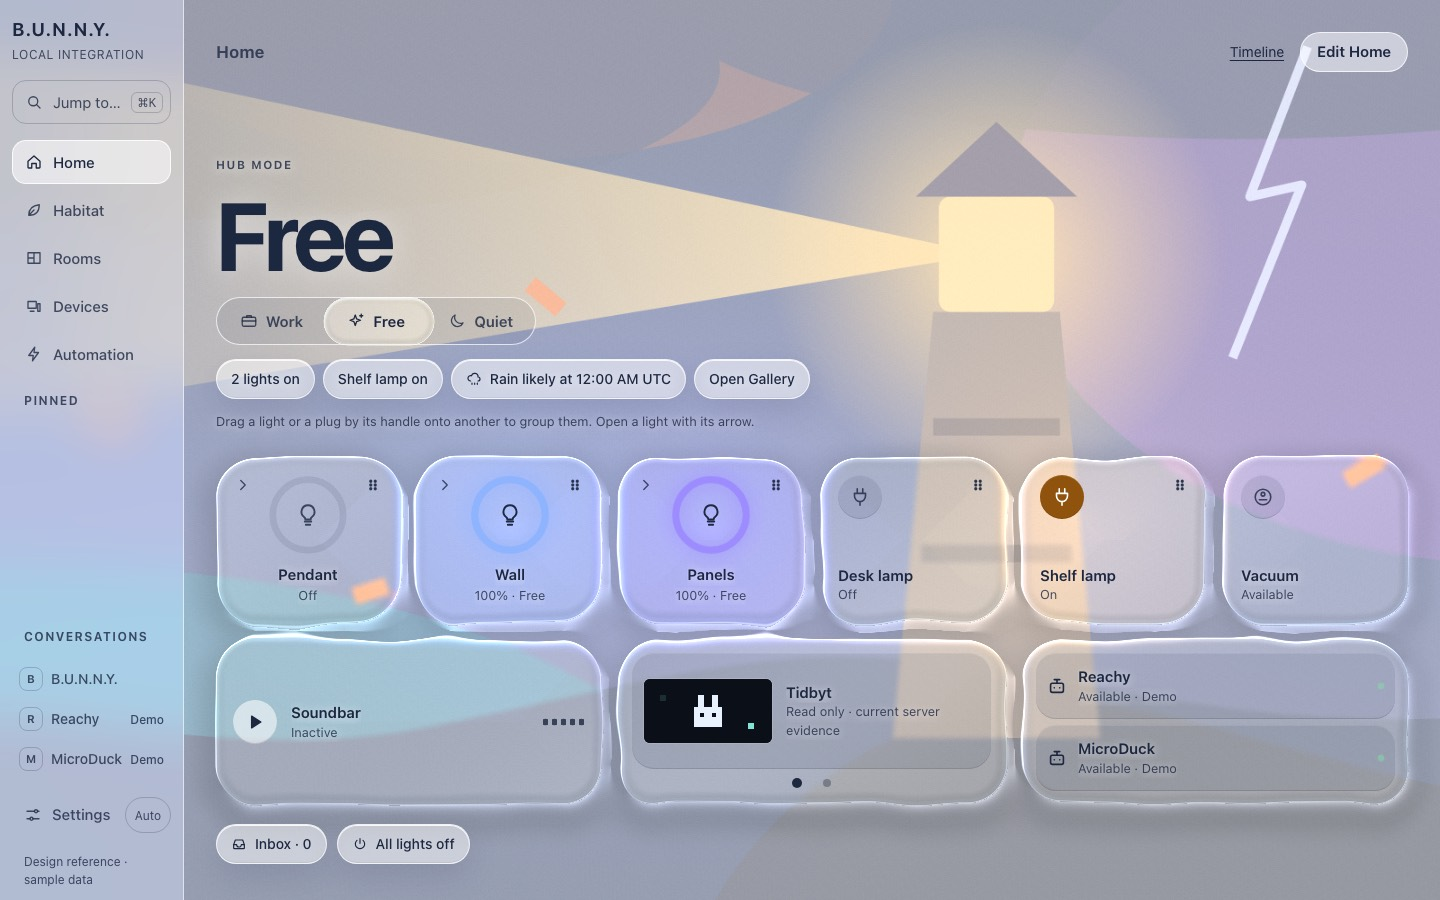
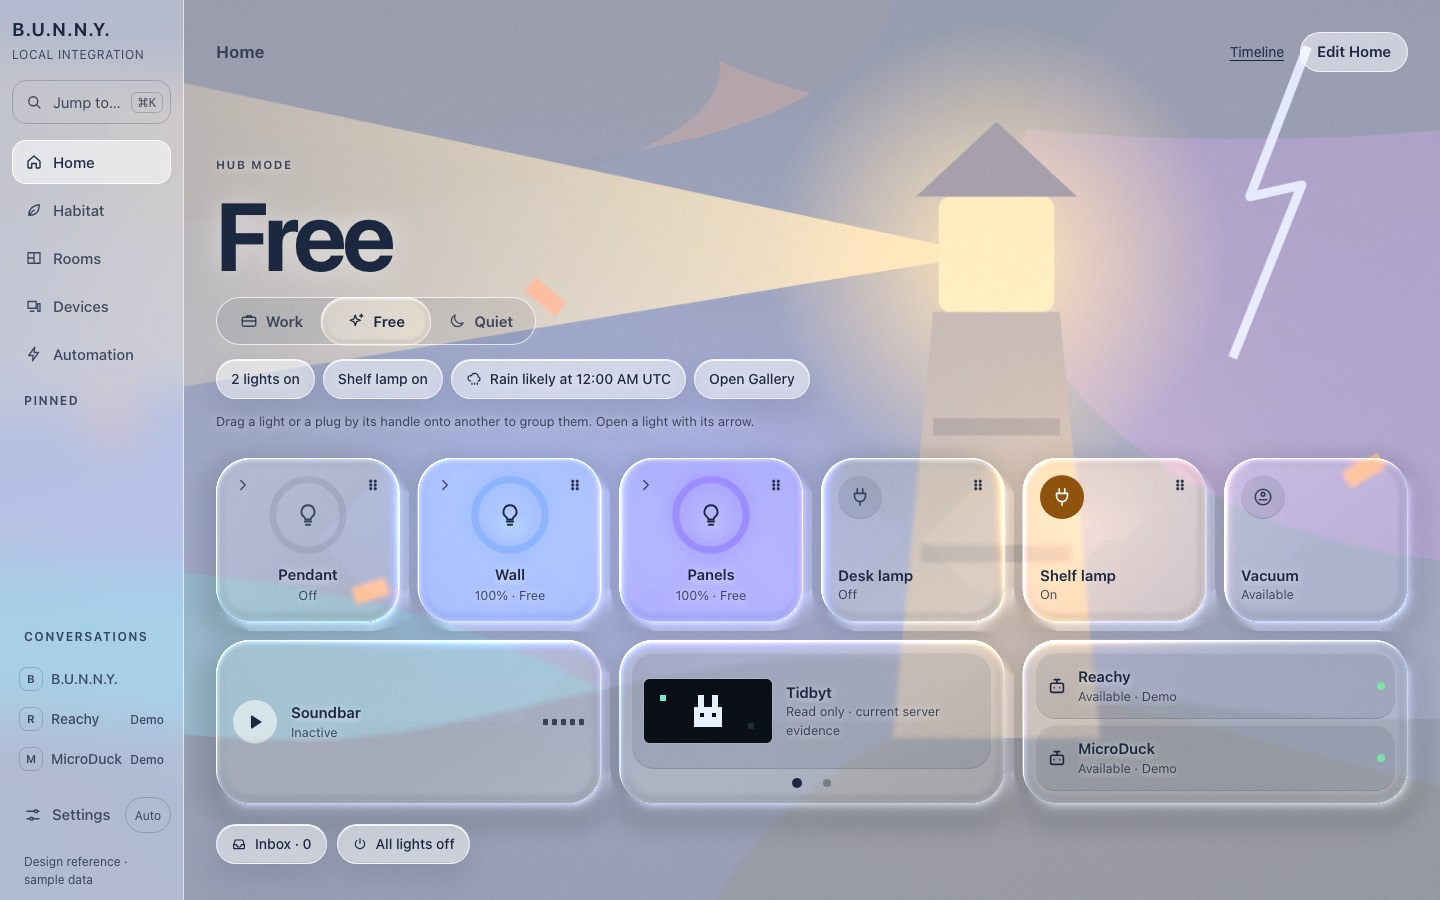
Retake the Clear reference's desktop stills at rest and call its data sample
The light still was captured before the glass settled. The README said
every name is invented, while three are the baseline's generic words.

Refs #1927

diff --git a/docs/design-references/home-clear/README.md b/docs/design-references/home-clear/README.md
@@ -46,7 +46,7 @@ Things to try, because the stills cannot show them:
 
 ## What is sample
 
-Every device, name, state and number is invented, and every control changes
+Every device, name, state and number is sample data, and every control changes
 only the page's own memory. The picture is a drawn stand-in for the presented
 artwork. Links show a note instead of leaving the page. The rail is a static
 copy of the dashboard's rail.
